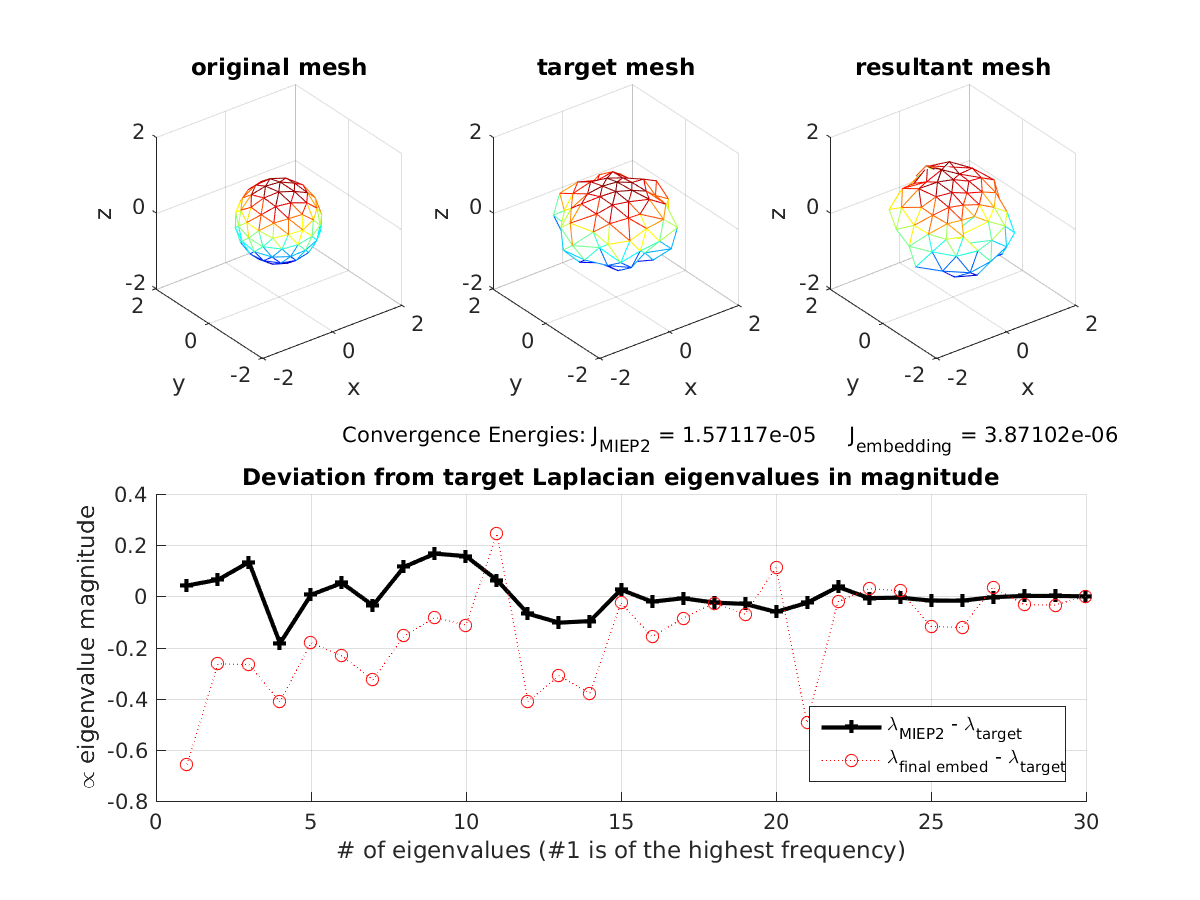
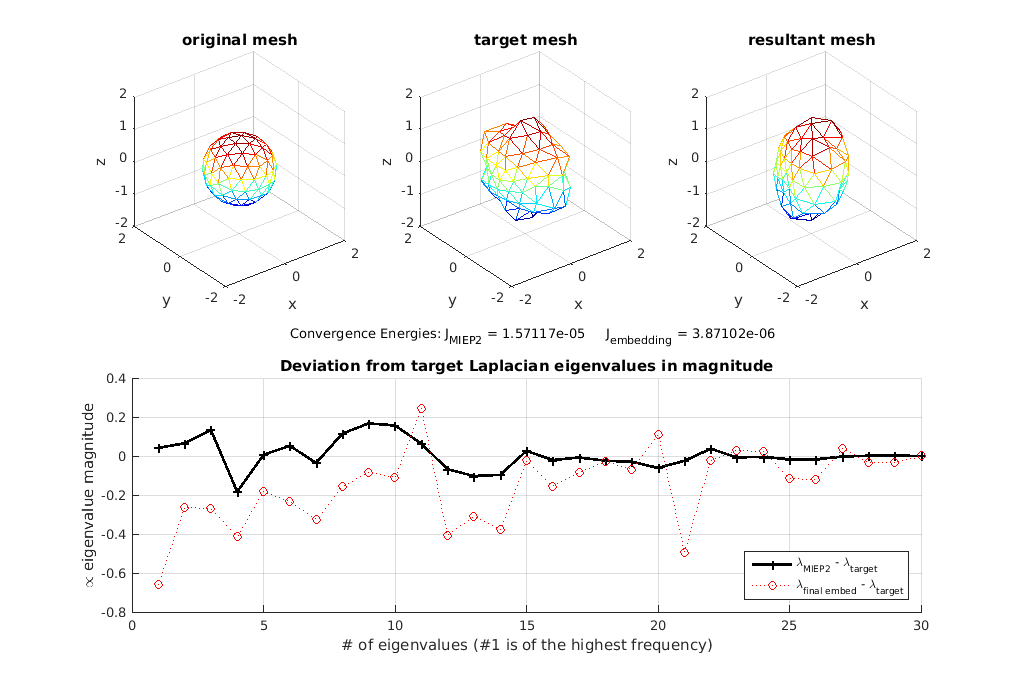
generic new commit

diff --git a/test_script.m b/test_script.m
@@ -13,7 +13,7 @@ Y43 = @(v) (7*v(:,3).^2-3*vnorm(v).^2).*v(:,1).*v(:,3)./(vnorm(v)).^4;
 imax = 1e3; % gradient descent maximum iterations
 aC = .5; bC = .8; tC = 30; etolC = 5e-4; % Conformal descent control
 aS = .5; bS = .8; tS = 150; etolS = 5e-4; % invSpec descent control
-numeig = .6; % number of eigenvalues used, <=1 => percent, <=0 => all
+numeig = .5; % number of eigenvalues used, <=1 => percent, <=0 => all
 pert = .512; % scaling coefficient used to control target perturbation
 rng(1432543); % rand seed
 %% input case == 1; import face-vtx from *.obj file
@@ -21,7 +21,7 @@ rng(1432543); % rand seed
 % init_data.dat = 'sphere_small';
 %% input case == 2; sphere of ssize # of vtx
 init_data.num = 2; 
-init_data.dat = '300';
+init_data.dat = '1000';
 %% input case == 3; import face-vtx from *.mat file
 % init_data.num = 3; 
 % init_data.dat = '300';
@@ -36,7 +36,7 @@ target_data.dat = @(v) abs(Y33(v));
 %% testing time
 % for pert = .3:.1:2
 % for numeig = .1:.1:1
-for numeig = .6
+for i=1
   [v,f,v_end,v_T,f_T,J_hist,Jc_hist,...
     D_0,D_T,D_endp,D_end] = main(init_data,target_data,...
     imax,aC,bC,tC,etolC,aS,bS,tS,etolS,...

diff --git a/gradescent.m b/gradescent.m
@@ -42,7 +42,7 @@ for i = 1:imax
       break;
     end
   end
-  while abs((tau-tau_old)/tau)>1e-3
+  while abs((tau-tau_old)/tau)>1e-1
     tau_old = tau;
     vp1 = v(:,i) + tau*u;
     [Jp1,GJp1] = feval(costf,vp1,varargin{:});
